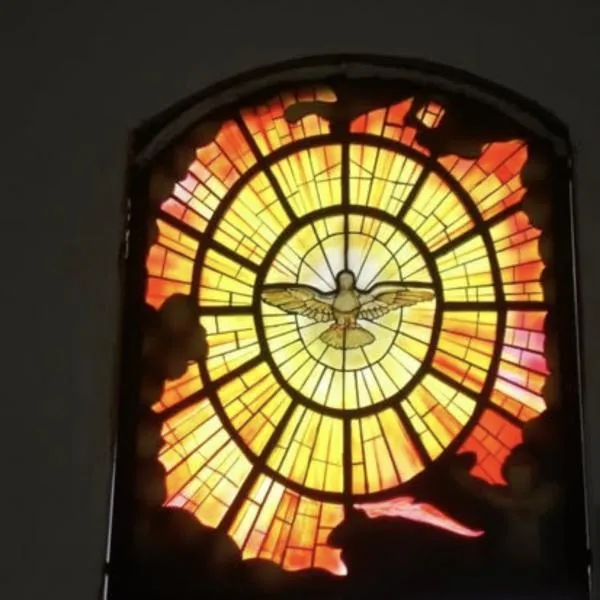
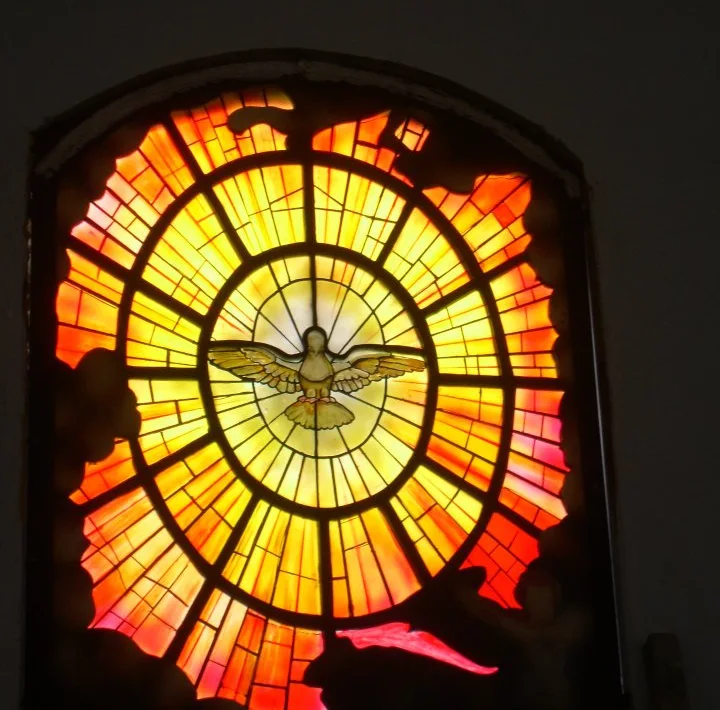
Photos de l'Esprit Saint en meilleure qualité
Claude-Session: https://claude.ai/code/session_01ASf3MwqBPg1yZhYzFh1DrQ

diff --git a/index.html b/index.html
@@ -74,7 +74,7 @@ nav.links a:hover{color:var(--stone)}
 @keyframes breathe{50%{opacity:.6;transform:scale(.96)}}
 @media (prefers-reduced-motion:reduce){.glow::before{animation:none}}
 .glow figure{position:relative;z-index:1;margin:0;border-radius:999px 999px 8px 8px;overflow:hidden;border:6px solid #05080f;box-shadow:0 0 0 1px var(--rule)}
-.glow img{width:100%;aspect-ratio:4/5;object-fit:cover;object-position:center 40%}
+.glow img{width:100%;aspect-ratio:4/5;object-fit:cover;object-position:center 60%}
 .glow figcaption{position:relative;z-index:1;margin-top:12px;font-size:.82rem;color:var(--stone-dim);text-align:center}
 
 section.band{padding-block:clamp(64px,9vw,108px);border-bottom:1px solid var(--rule)}
@@ -306,7 +306,7 @@ footer .fb svg{width:18px;height:18px;fill:var(--gold)}
       </ol>
       <div class="install">
         <figure><img src="img/pose-1.webp" alt="L'équipe soulève le vitrail de l'Esprit Saint pour le mettre en place dans l'ouverture" loading="lazy" width="600" height="600"><figcaption>Mise en place du vitrail de l'Esprit Saint</figcaption></figure>
-        <figure><img src="img/pose-2.webp" alt="L'équipe sur un échafaudage pose un vitrail rond au-dessus d'un autel" loading="lazy" width="600" height="600"><figcaption>Pose en hauteur dans le chœur d'une église</figcaption></figure>
+        <figure><img src="img/pose-2.webp" alt="Le vitrail de l'Esprit Saint posé sur une table, prêt à être monté dans l'ouverture de l'église" loading="lazy" width="960" height="720"><figcaption>Le vitrail prêt à être monté dans l'ouverture</figcaption></figure>
       </div>
     </div>
   </section>
